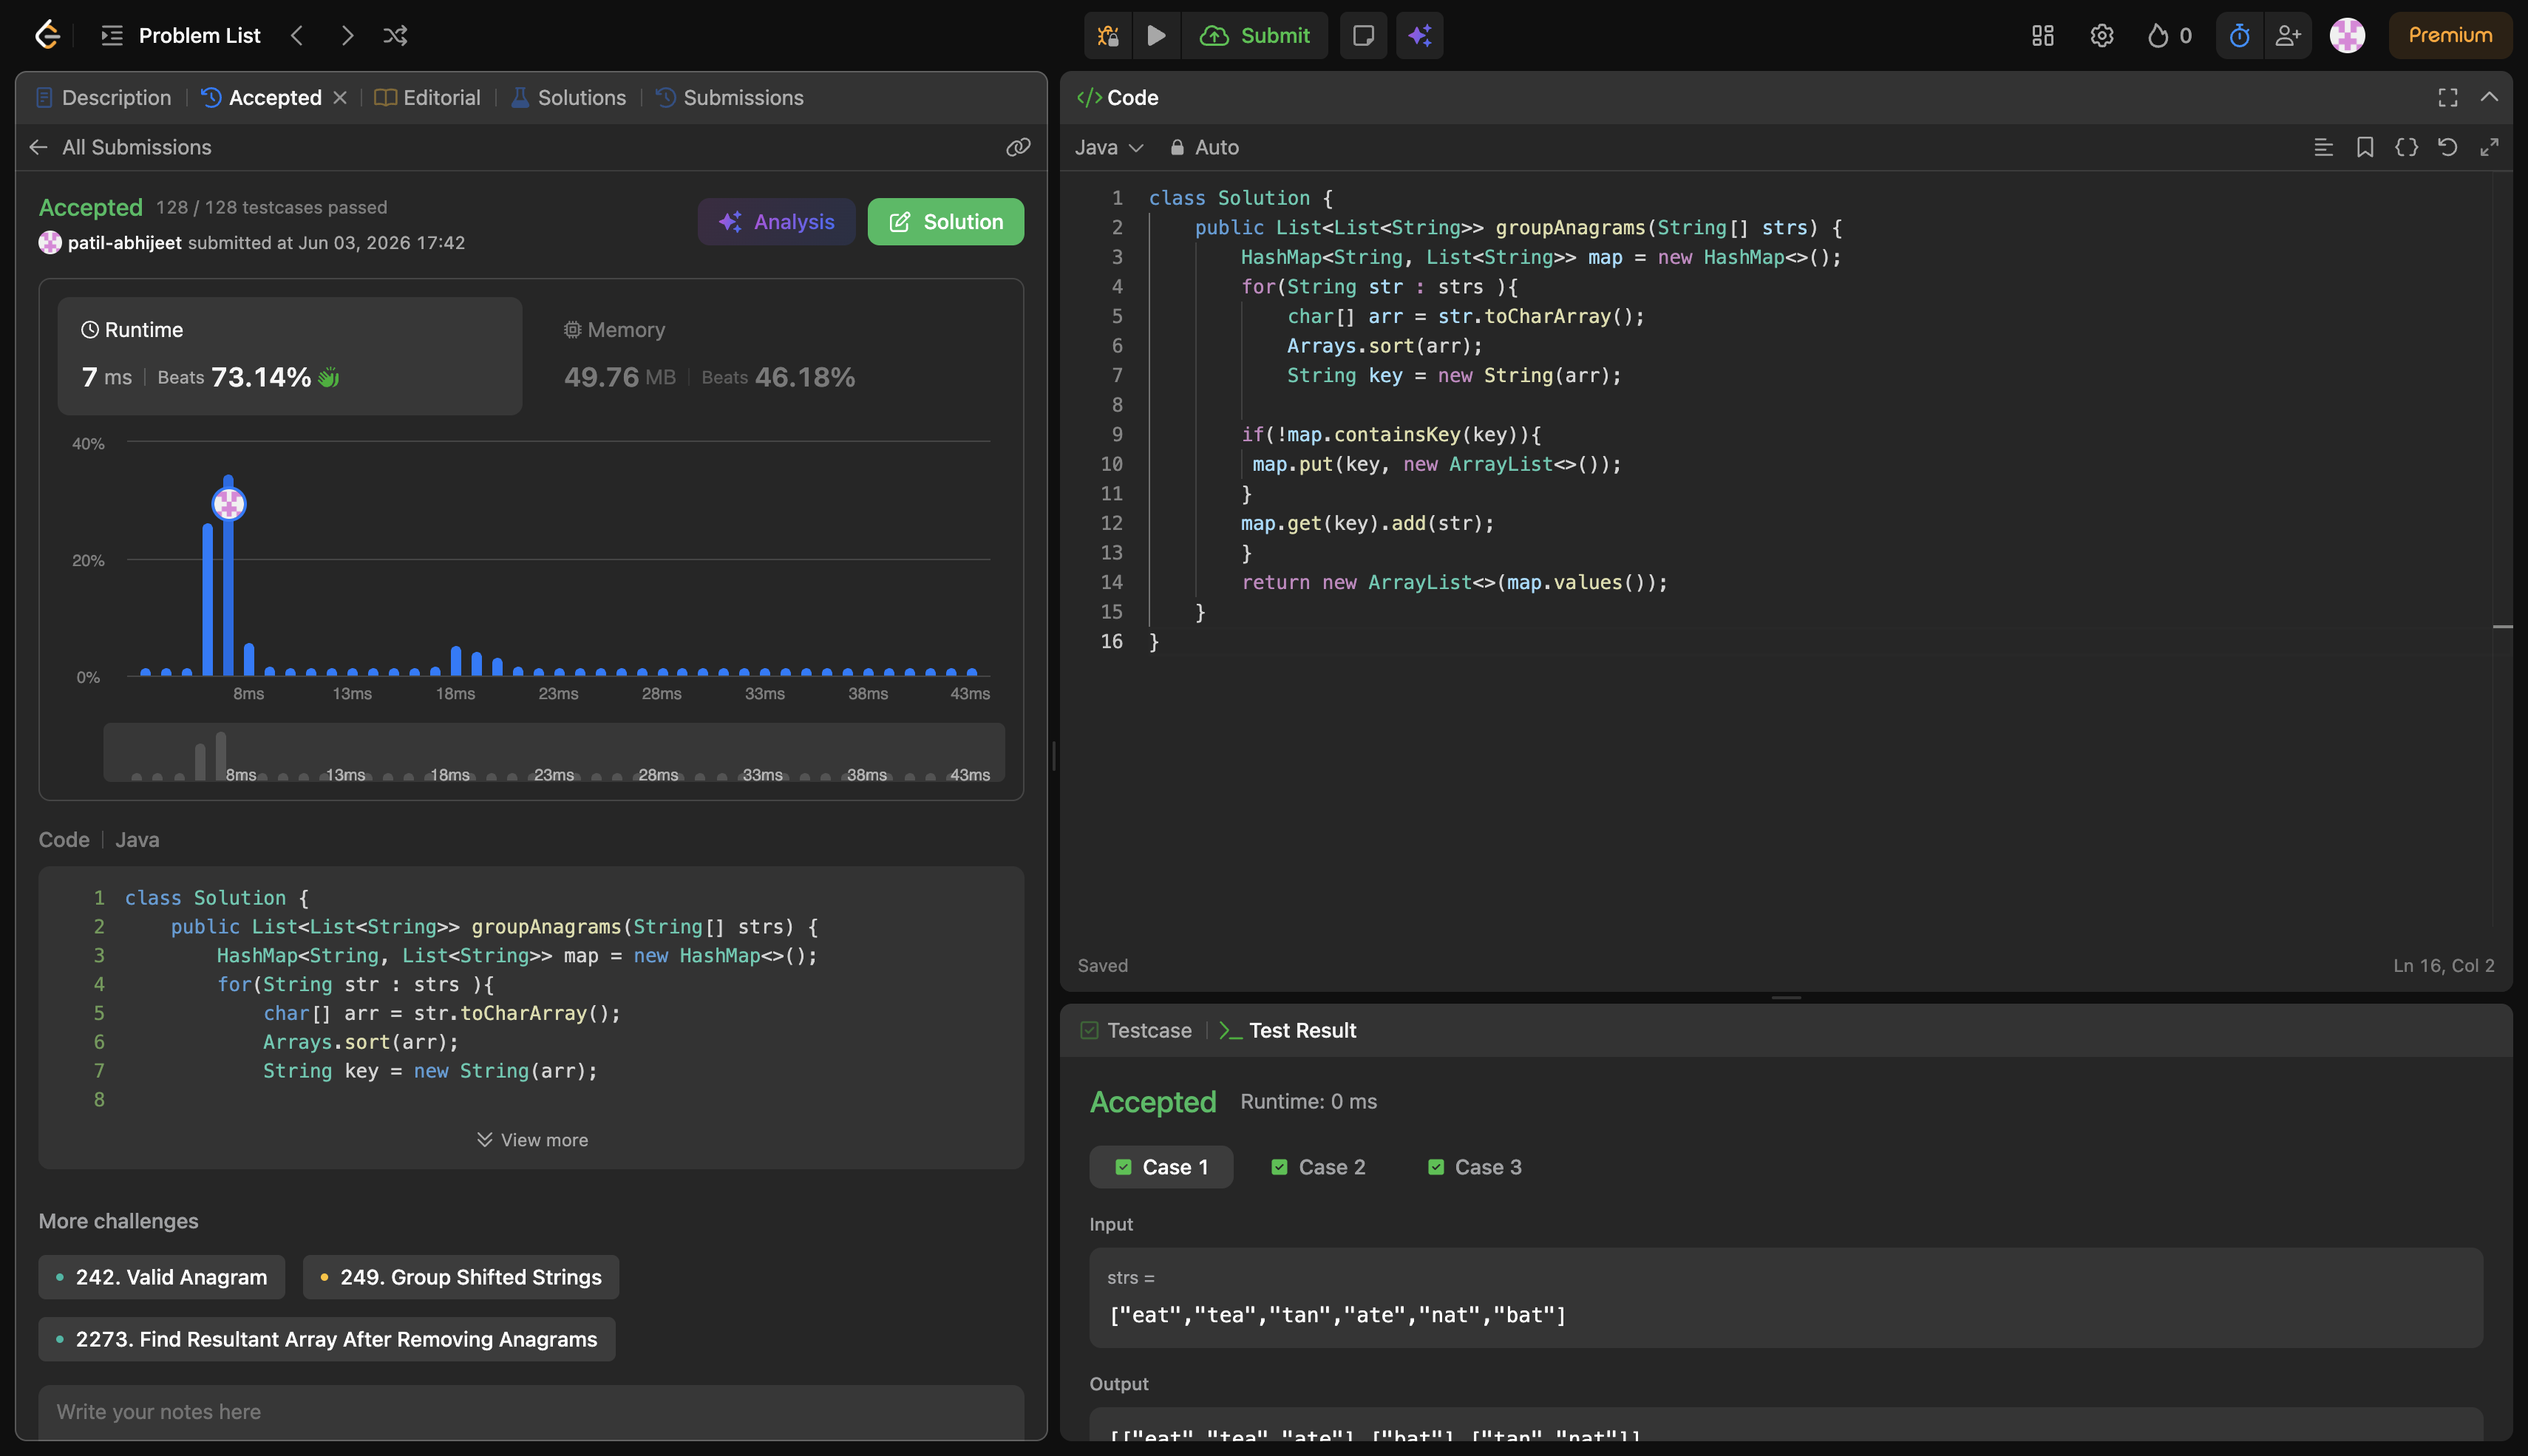
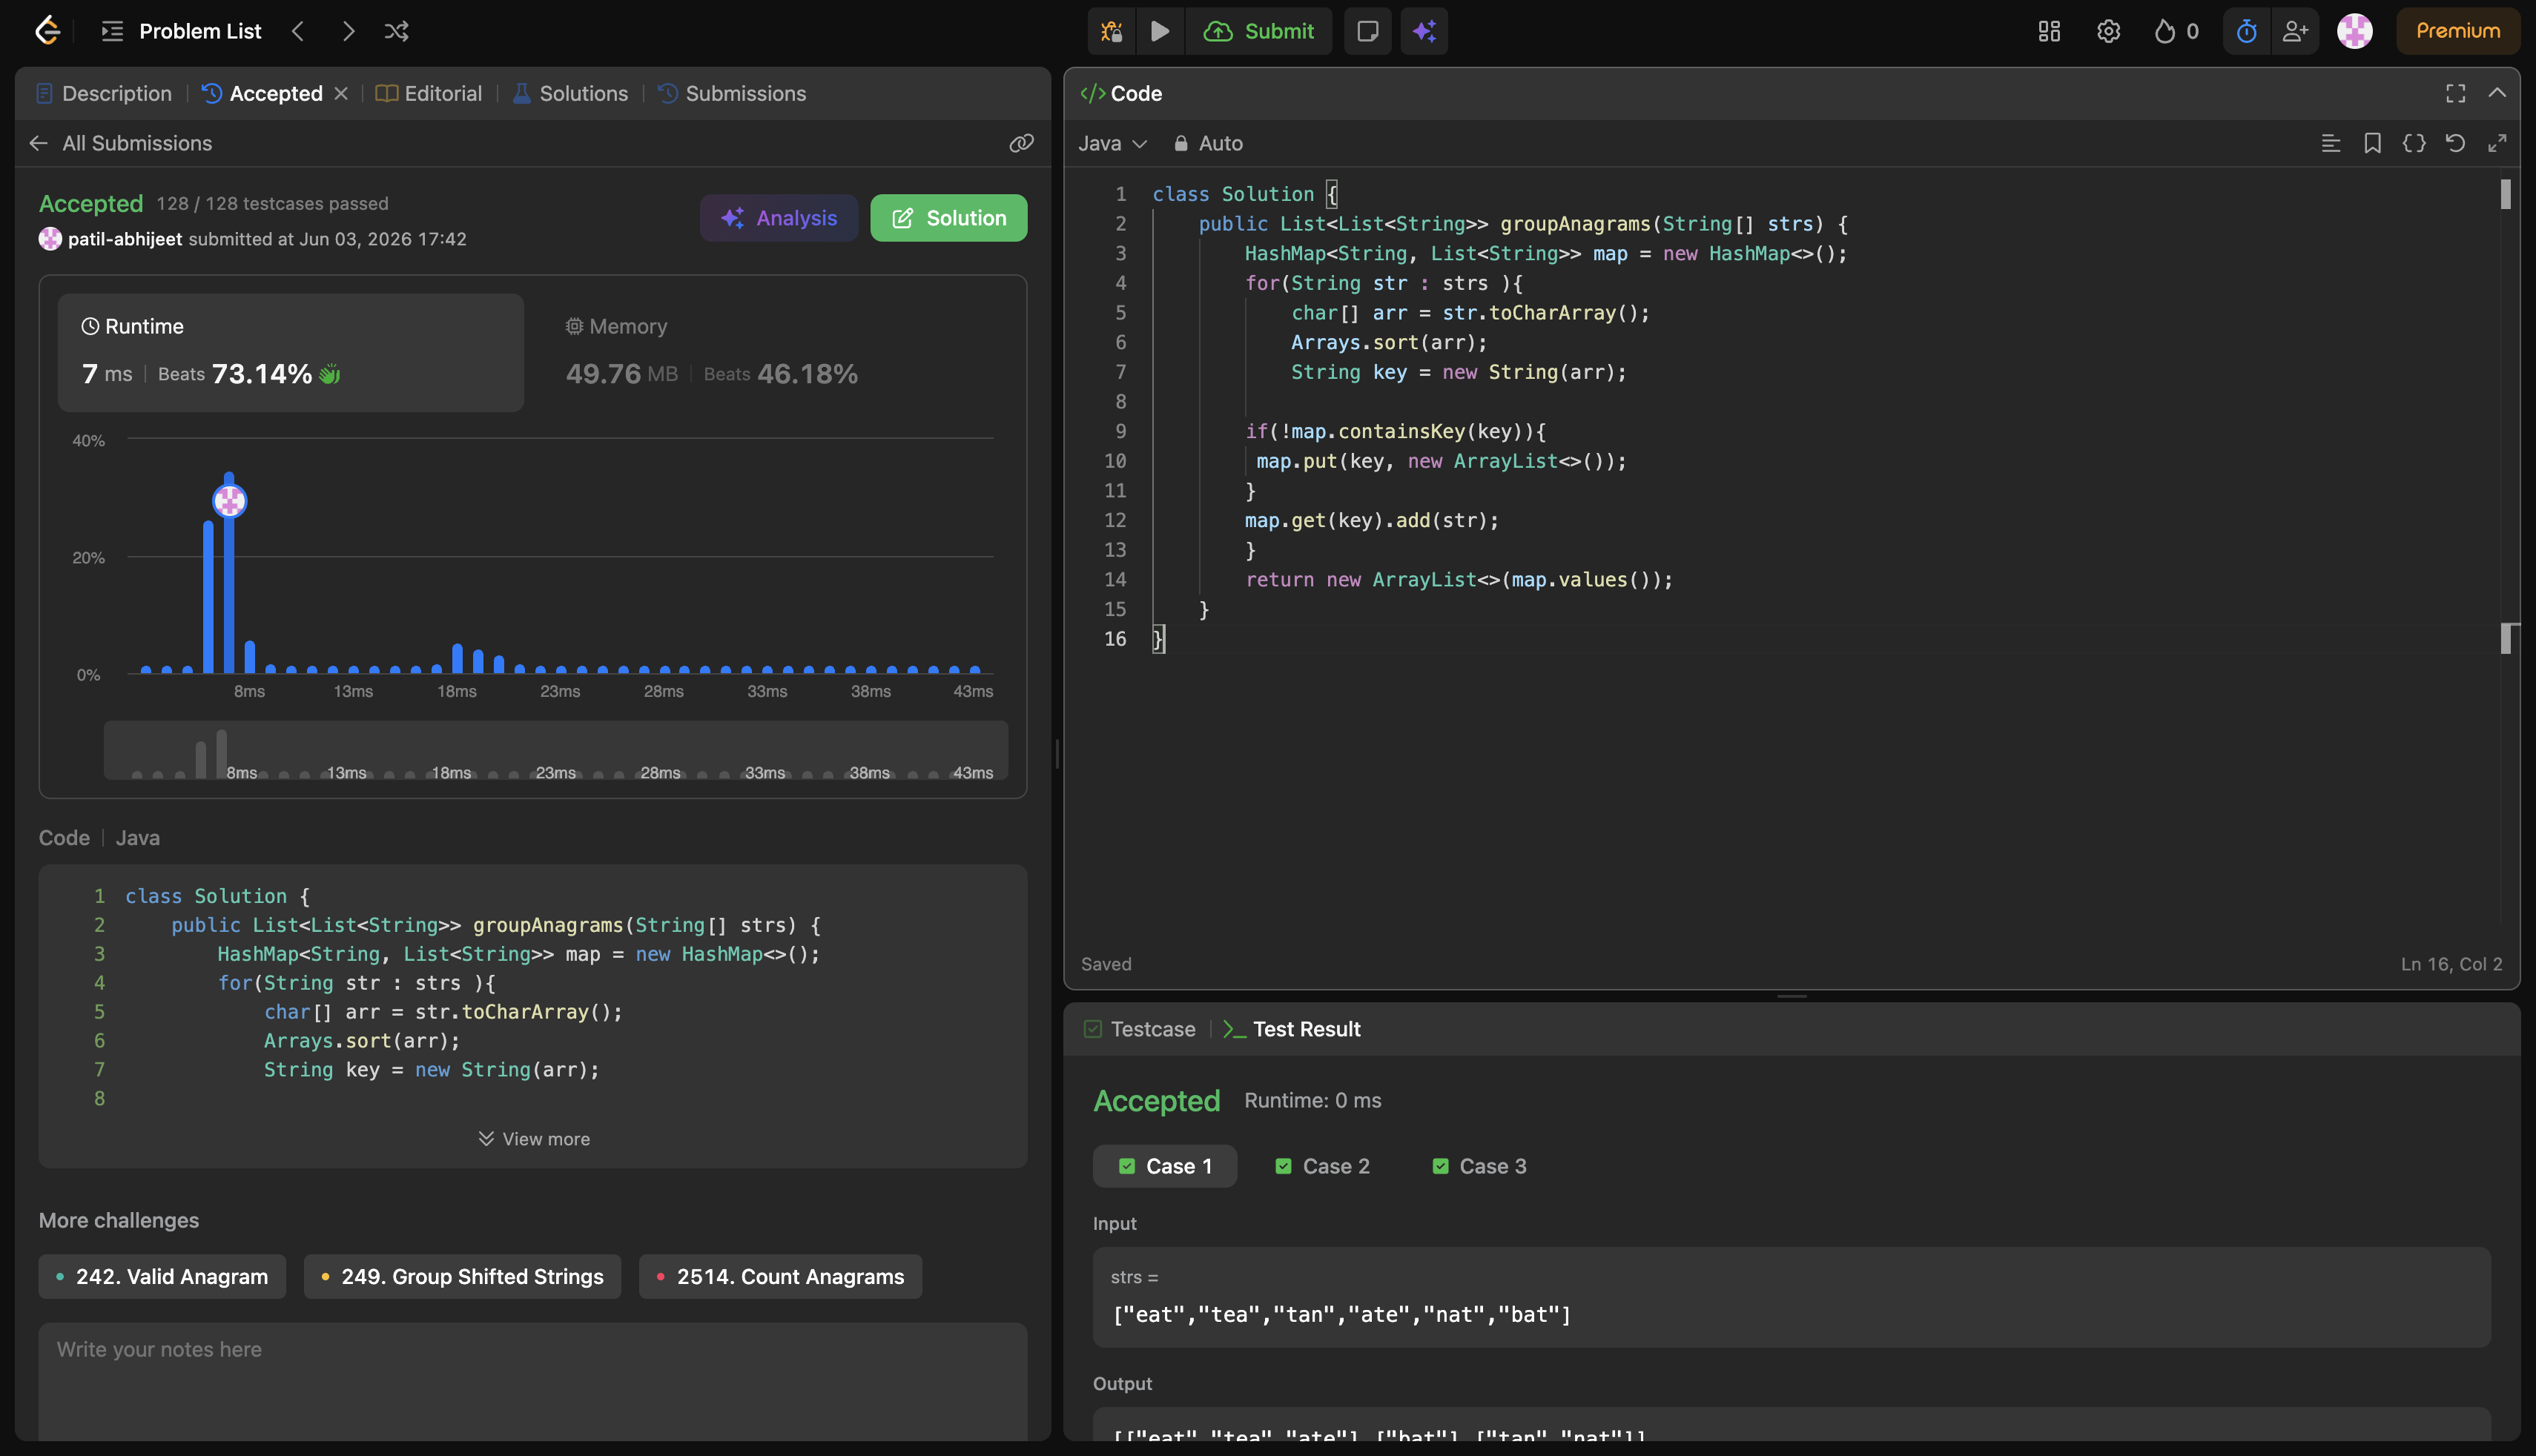
DAY3

diff --git a/DAY3/Solution.java b/DAY3/Solution.java
@@ -1,3 +1,5 @@
+package DAY3;
+
 class Solution {
     public List<List<String>> groupAnagrams(String[] strs) {
         HashMap<String, List<String>> map = new HashMap<>();